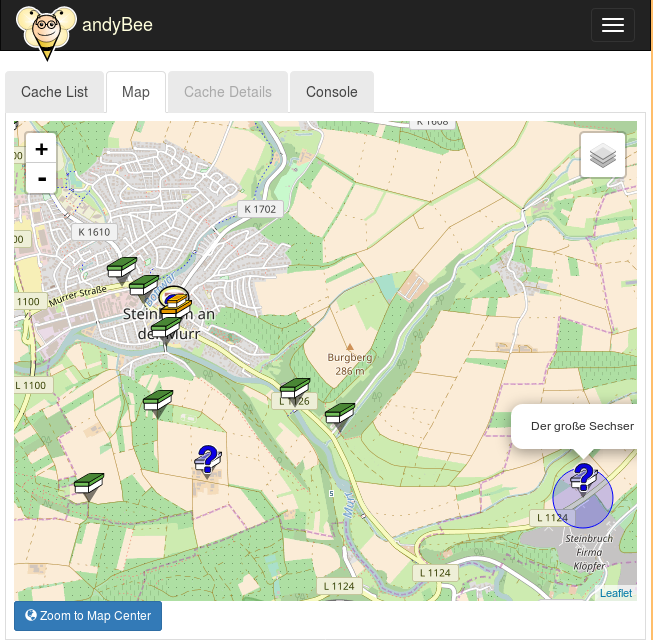
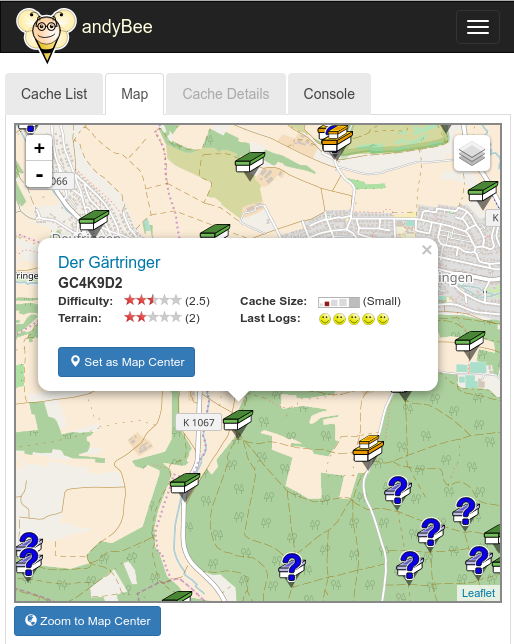
Marker popup extended
- popup for geocache markers extended, now an overview is shown
- some minor style improvements
- selecting a new geocache detail now always jumps to the
overview tab

diff --git a/app/static/geocaches/geocache_map.controller.js b/app/static/geocaches/geocache_map.controller.js
@@ -80,6 +80,8 @@
         };
 
         vm.center_map = center_map;
+        vm.show_geocache_details = show_geocache_details;
+        vm.set_center = set_center;
 
         $scope.$on('geocaches_updated', function (event, args) {
             vm.markers = {};
@@ -89,7 +91,28 @@
                 vm.markers[geocache.gc_code] = {
                     lat: geocache.lat,
                     lng: geocache.lon,
-                    message: geocache.title,
+                    message: 
+                        '<div class="popup">' +
+                        '  <div><a href ng-click="map.show_geocache_details(' + geocache.id + ')" class="popup-title">' + geocache.title + '</a></div>' +
+                        '  <div class="gc_code">' + geocache.gc_code + '</div>' +
+                        '  <div class="table">' +
+                        '      <dl class="table-row">' +
+                        '          <dt>Difficulty: </dt>' +
+                        '          <dd><geocache-rating value="' + geocache.difficulty + '" class="rating_popup"></geocache-rating> (' + geocache.difficulty + ')</dd>' +
+                        '          <dt>Cache Size: </dt>' +
+                        '          <dd class="last-column"><geocache-size size="' + geocache.container + '" class="size_popup"></geocache-size> (' + geocache.container + ')</dd>' +
+                        '      </dl>' +
+                        '      <dl class="table-row paragraph">' +
+                        '          <dt>Terrain: </dt>' +
+                        '          <dd><geocache-rating value="' + geocache.terrain + '" class="rating_popup"></geocache-rating> (' + geocache.terrain + ')</dd>' +
+                        '          <dt>Last Logs: </dt>' +
+                        '          <dd class="last-column"><geocache-log ng-repeat="log in \'' + geocache.last_logs.replace(/'/g, "\\\'") + '\'.split(\';\') track by $index" type="{{log}}" title="{{log}}" class="last_log_popup"></geocache-log></dd>' +
+                        '      </dl>' +
+                        '  </div>' +
+                        '  <div><button class="btn btn-primary btn-sm" ng-click="map.set_center(' + geocache.lat + ', ' + geocache.lon + ')"> <span class="glyphicon glyphicon-map-marker"></span> Set as Map Center </button></div>' +
+                        '</div>',
+                    compileMessage: true,
+                    getMessageScope : function() { return $scope; },
                     layer: "geocaches",
                     icon: {
                         iconUrl: marker_trans[geocache.type],
@@ -155,6 +178,13 @@
             centroid_marker.latlngs = [GeocacheService.home_lat, GeocacheService.home_lon];
         }
 
+        function show_geocache_details(id) {
+            GeocacheService.read(id); // cache detail tab
+        }
+
+        function set_center(lat, lon) {
+            GeocacheService.on_reference_changed(lat, lon);
+        }
     }
 
 })();

diff --git a/app/static/css/andyBee.css b/app/static/css/andyBee.css
@@ -116,6 +116,12 @@ dl.table-row > dd {
     padding-right: 30px;
 }
 
+
+dl.table-row > dd.last-column {
+    padding-right: 0px;
+}
+
+
 .no-indent {
     padding-left: 0;
 }
@@ -165,6 +171,10 @@ geocache-log.last_log > img {
     padding: 1px;
 }
 
+geocache-log.last_log_popup > img {
+    height: 14px;
+    padding: 1px;
+}
 geocache-log.user_log > img {
     height: 16px;
     margin-right: 5px;
@@ -183,6 +193,15 @@ hr.dark {
 
 .size_detail {
     height: 12px;
+}
+
+.rating_popup {
+    height: 11px;
+    vertical-align: inherit;
+}
+
+.size_popup {
+    height: 11px;
 }
 
 .attr_detail {
@@ -204,3 +223,34 @@ hr.dark {
     padding-bottom: 5px;
     z-index: 10;
 }
+
+.leaflet-popup {
+    width: 400px;
+}
+
+.popup {
+    width: 360px;
+}
+
+.popup-title {
+    font-size: 1.3em;
+}
+
+.popup .gc_code {
+    font-size: 1.2em;
+    font-weight: bold;
+}
+
+.angular-leaflet-map {
+    border: 2px solid #888;
+}
+
+.tiny-gap-top {
+    margin-top: 3px;
+}
+
+.tiny-gap-bottom {
+    margin-bottom: 3px;
+}
+
+

diff --git a/app/templates/cache_details.html b/app/templates/cache_details.html
@@ -1,5 +1,5 @@
 <div ng-controller="GeocacheDetailCtrl as geocache">
-    <uib-tabset>
+    <uib-tabset active="geocache.serv.selected_detailed_tab">
         <uib-tab index="0" heading="Overview">
             <div class="container-fluid cache-detail">
                 <div class="pull-left">
@@ -47,7 +47,7 @@
                 <geocache-attr ng-repeat="att in geocache.serv.detail.attributes" attr="{{att.name|angular}}" inc="{{att.inc|angular}}" class="attr_detail"></geocache-attr>
             </div>
             <div>
-                <a href="{{geocache.serv.detail.url|angular}}" target="_blank" class="btn btn-info btn-sm" role="button">Open Listing on geocaching.com</a>
+                <a href="{{geocache.serv.detail.url|angular}}" target="_blank" class="btn btn-primary btn-sm" role="button"><span class="glyphicon glyphicon-globe"></span> Open Listing on geocaching.com</a>
             </div>
         </uib-tab>
         <uib-tab index="1" heading="Description">

diff --git a/app/templates/cache_list.html b/app/templates/cache_list.html
@@ -1,10 +1,10 @@
 <div ng-controller="GeocacheListCtrl as geolist" class="container-fluid">
-    <button class="btn btn-primary btn-sm pull-right"
+    <button class="btn btn-primary btn-sm pull-right tiny-gap-bottom"
             ng-disabled="!(geolist.tableParams.orderBy().length || geolist.tableParams.hasFilter())"
             ng-click="geolist.reset_filter()">
         <span class="glyphicon glyphicon-filter"></span> Reset Table Filter
     </button>
-    <table ng-table-dynamic="geolist.tableParams with geolist.cols" class="table table-condensed table-bordered table-striped">
+    <table ng-table-dynamic="geolist.tableParams with geolist.cols" class="table table-condensed table-bordered table-striped ">
         <tr ng-repeat="row in $data">
             <!--td ng-repeat="col in $columns">{{"{{row[col.field]}}"}}</td-->
             <td ng-if="true"><!-- img src="static/images/OCMLogoSmall.svg" height="20px"/--> 

diff --git a/app/static/geocaches/geocache.service.js b/app/static/geocaches/geocache.service.js
@@ -13,6 +13,7 @@
         var serv = {
             // which of the tabs (list, map, detail, console) is active
             selected_tab: 0,
+            selected_detailed_tab: 0,
             home_lat: 30.7,
             home_lon: 9.9,
             detail: {},
@@ -143,6 +144,7 @@
         function read (id, success_cb, error_cb) {
             error_cb = error_cb || on_get_error;
             serv.selected_tab = 2; // switch to the details tab
+            serv.selected_detailed_tab = 0; // switch to overview tab
             rest.get({db: serv.db_name, geocache_id: id}, get_response, error_cb);
 
             function get_response (result) {

diff --git a/app/templates/map.html b/app/templates/map.html
@@ -1,6 +1,6 @@
 <div ng-controller="GeocacheMapCtrl as map">
     <leaflet width="100%" height="480px" lf-center="map.centroid" markers="map.markers" paths="map.pathes" layers="map.layers"></leaflet>
-    <button class="btn btn-primary btn-sm"
+    <button class="btn btn-primary btn-sm tiny-gap-top"
             ng-click="map.center_map()">
         <span class="glyphicon glyphicon-globe"></span> Zoom to Map Center
     </button>

diff --git a/doc/screenshots.md b/doc/screenshots.md
@@ -27,7 +27,7 @@ A click on a cluster zooms in into the corresponding area.
 
 > [<img src="screenshots/map.png" alt="Drawing" style="width: 200px;"/>](screenshots/map.png)
 
-The following screenshot shows how a cluster is expanded when clicking on it.
+The following screenshot shows how a cluster is expanded when clicking on it. Additionally, the popup is shown when clicking on a geocache marker.
 > [<img src="screenshots/map2.png" alt="Drawing" style="width: 200px;"/>](screenshots/map2.png)
 
 The following screenshot shows the minimum distance clearance (161 meters) around each geocache on the map.
